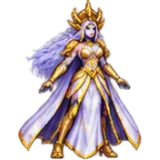
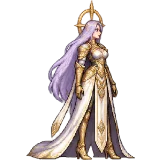
Vault Mother: full boss set (sheet + 6 files) generated by Gemini via the Codex queue, passes the gate and is built in — level 9's own boss

diff --git a/docs/prompts/queue_log_091426.md b/docs/prompts/queue_log_091426.md
@@ -179,3 +179,17 @@ Append-only format:
 - CLAUDE 12:11 the-null special → PASS (gate + by eye: the inverting phase — negative flash 4–7, figure stays readable throughout).
 - CLAUDE 12:18 the-null hurt → PASS (gate + by eye: flinch / reel / airborne crumple; the static fringe stays contained). Only defeat left.
 - CLAUDE 12:26 the-null defeat → PASS. **THE NULL COMPLETE 6/6** — verify:character PASS, build:assets + test:assets clean, npm test 161/161, roster: level 8. Committed (art + built atlas + portrait). Next: vault-mother.
+2026-09-14 13:40 vault-mother sheet vault-mother-sheet.png → GENERATED; saved for Claude verification.
+- CLAUDE 13:42 vault-mother sheet → ACCEPTED as identity (regal, lavender hair, gold halo-crown, white-and-gold segmented gown, chain whip, halo orbs — exactly the card). It has a PAINTED checkerboard, not alpha: fine for a sheet (reference only), but every action file must be run through `npm run intake:character -- vault-mother <action>` before I gate it — and ask the model for a true transparent background as the standard says. Continue with idle.
+2026-09-14 13:42 vault-mother action idle.png → GENERATED; INTAKEN; Claude verification pending.
+- CLAUDE 13:48 vault-mother idle → PASS (gate + by eye: intake keyed the checkerboard cleanly; 9 distinct frames, halo orbs drifting). Attach idle.png as size reference.
+2026-09-14 13:54 vault-mother action approach.png → GENERATED; INTAKEN; Claude verification pending.
+- CLAUDE 14:00 vault-mother approach → PASS (gate + by eye: stately stride, alternating legs, hair and gown flowing).
+2026-09-14 14:05 vault-mother action attack.png → GENERATED; INTAKEN; Claude verification pending.
+- CLAUDE 14:08 vault-mother attack → PASS (gate + by eye: chain unspools → lash beam 4–6 → recoil; margins held).
+2026-09-14 14:20 vault-mother action special.png → GENERATED; INTAKEN; Claude verification pending.
+- CLAUDE 14:24 vault-mother special → PASS (gate + by eye: raise → halo orbs summoned 4 → bombs drop 5–7 → settle; the figure reads smaller in this file but within the gate's tolerance).
+2026-09-14 14:32 vault-mother action hurt.png → GENERATED; INTAKEN; Claude verification pending.
+- CLAUDE 14:35 vault-mother hurt → PASS (gate + by eye: flinch / reel / airborne curl, chain trailing). Only defeat left.
+2026-09-14 14:43 vault-mother action defeat.png → GENERATED; INTAKEN; Claude verification pending. Vault Mother's seven requested images are complete; Claude must verify before any build or roster-art readiness change.
+- CLAUDE 14:48 vault-mother defeat → PASS (halo falls, knee, crawl, flat 7–9 with settle). **VAULT MOTHER COMPLETE 6/6, zero retries** — verify PASS, build + gates clean, npm test green, roster: level 9. Committed. Next: ultra-signal.
